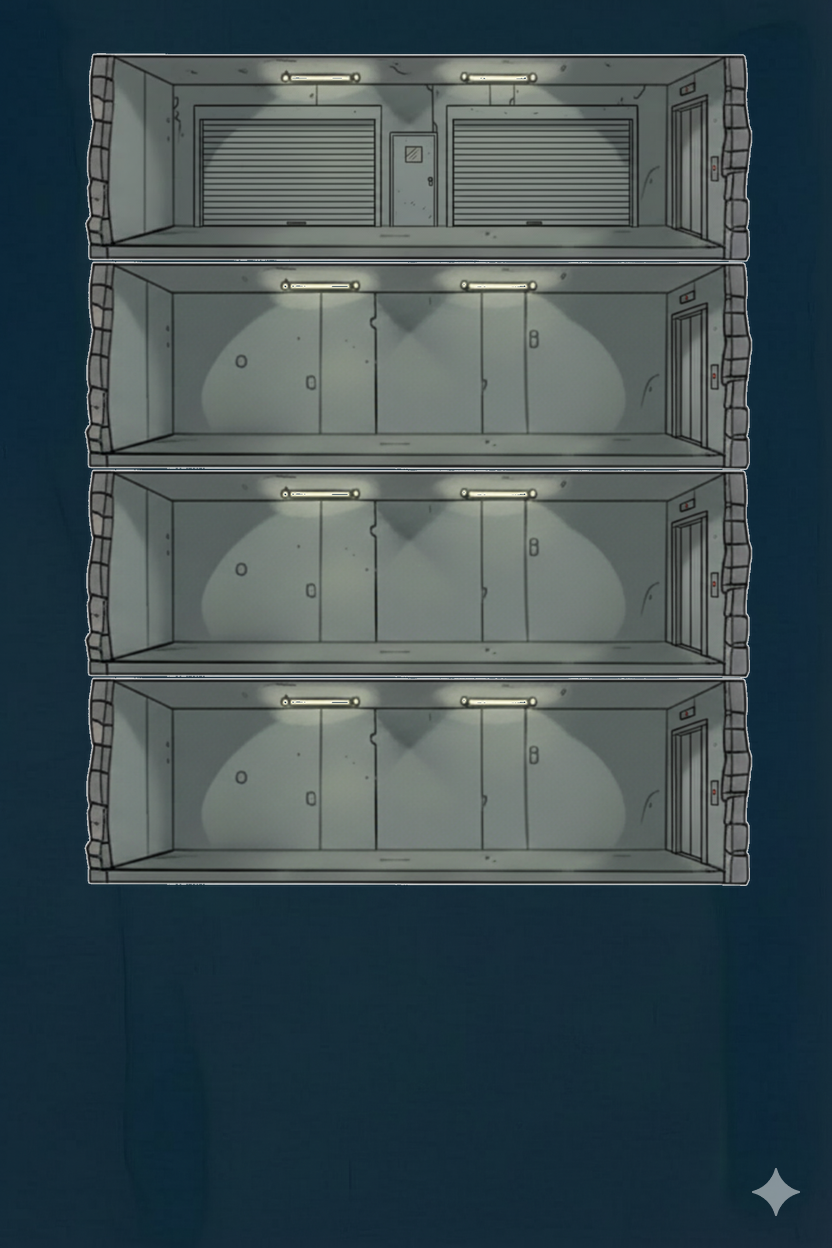
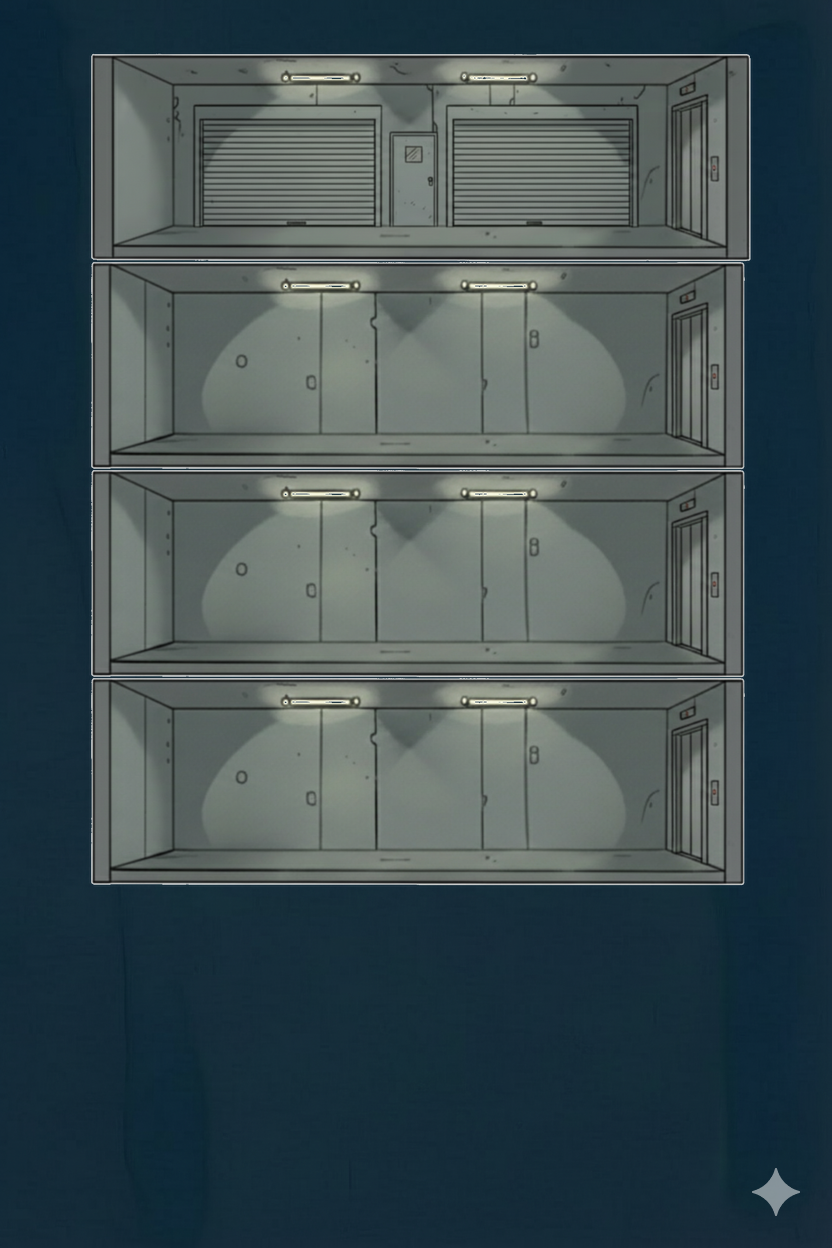
Add rectangular room assets for bunker map

Changed region(s): [[0.0938, 0.0312, 0.1875, 0.7188], [0.8438, 0.0312, 0.9062, 0.7188]]

diff --git a/New_maps/create_bunker_map.py b/New_maps/create_bunker_map.py
@@ -33,9 +33,9 @@ def remove_white_background(image, threshold=240):
 
 def create_bunker_map():
     # Load images
-    background_path = r"d:\Work\ApocalypseNow\Maps\New_maps\Gemini_Generated_Image_d0xhhqd0xhhqd0xh.png"
-    normal_room_path = r"d:\Work\ApocalypseNow\Maps\New_maps\Gemini_Generated_Image_9allzy9allzy9all.png"
-    entrance_path = r"d:\Work\ApocalypseNow\Maps\New_maps\Gemini_Generated_Image_q4a9qjq4a9qjq4a9.png"
+    background_path = r"d:\Work\ApocalypseNow\New_maps\Gemini_Generated_Image_d0xhhqd0xhhqd0xh.png"
+    normal_room_path = r"d:\Work\ApocalypseNow\New_maps\EmptyRoomAsset_Office4.png"
+    entrance_path = r"d:\Work\ApocalypseNow\New_maps\EmptyGarageAsset_Office3.png"
     
     print("Loading images...")
     try:
@@ -115,7 +115,7 @@ def create_bunker_map():
         y_position += new_room_height + vertical_padding
     
     # Save the composite image
-    output_path = r"d:\Work\ApocalypseNow\Maps\New_maps\bunker_map_composite.png"
+    output_path = r"d:\Work\ApocalypseNow\New_maps\bunker_map_composite.png"
     composite.save(output_path)
     print(f"\nComposite map saved to: {output_path}")
     print(f"Final image size: {composite.size}")
